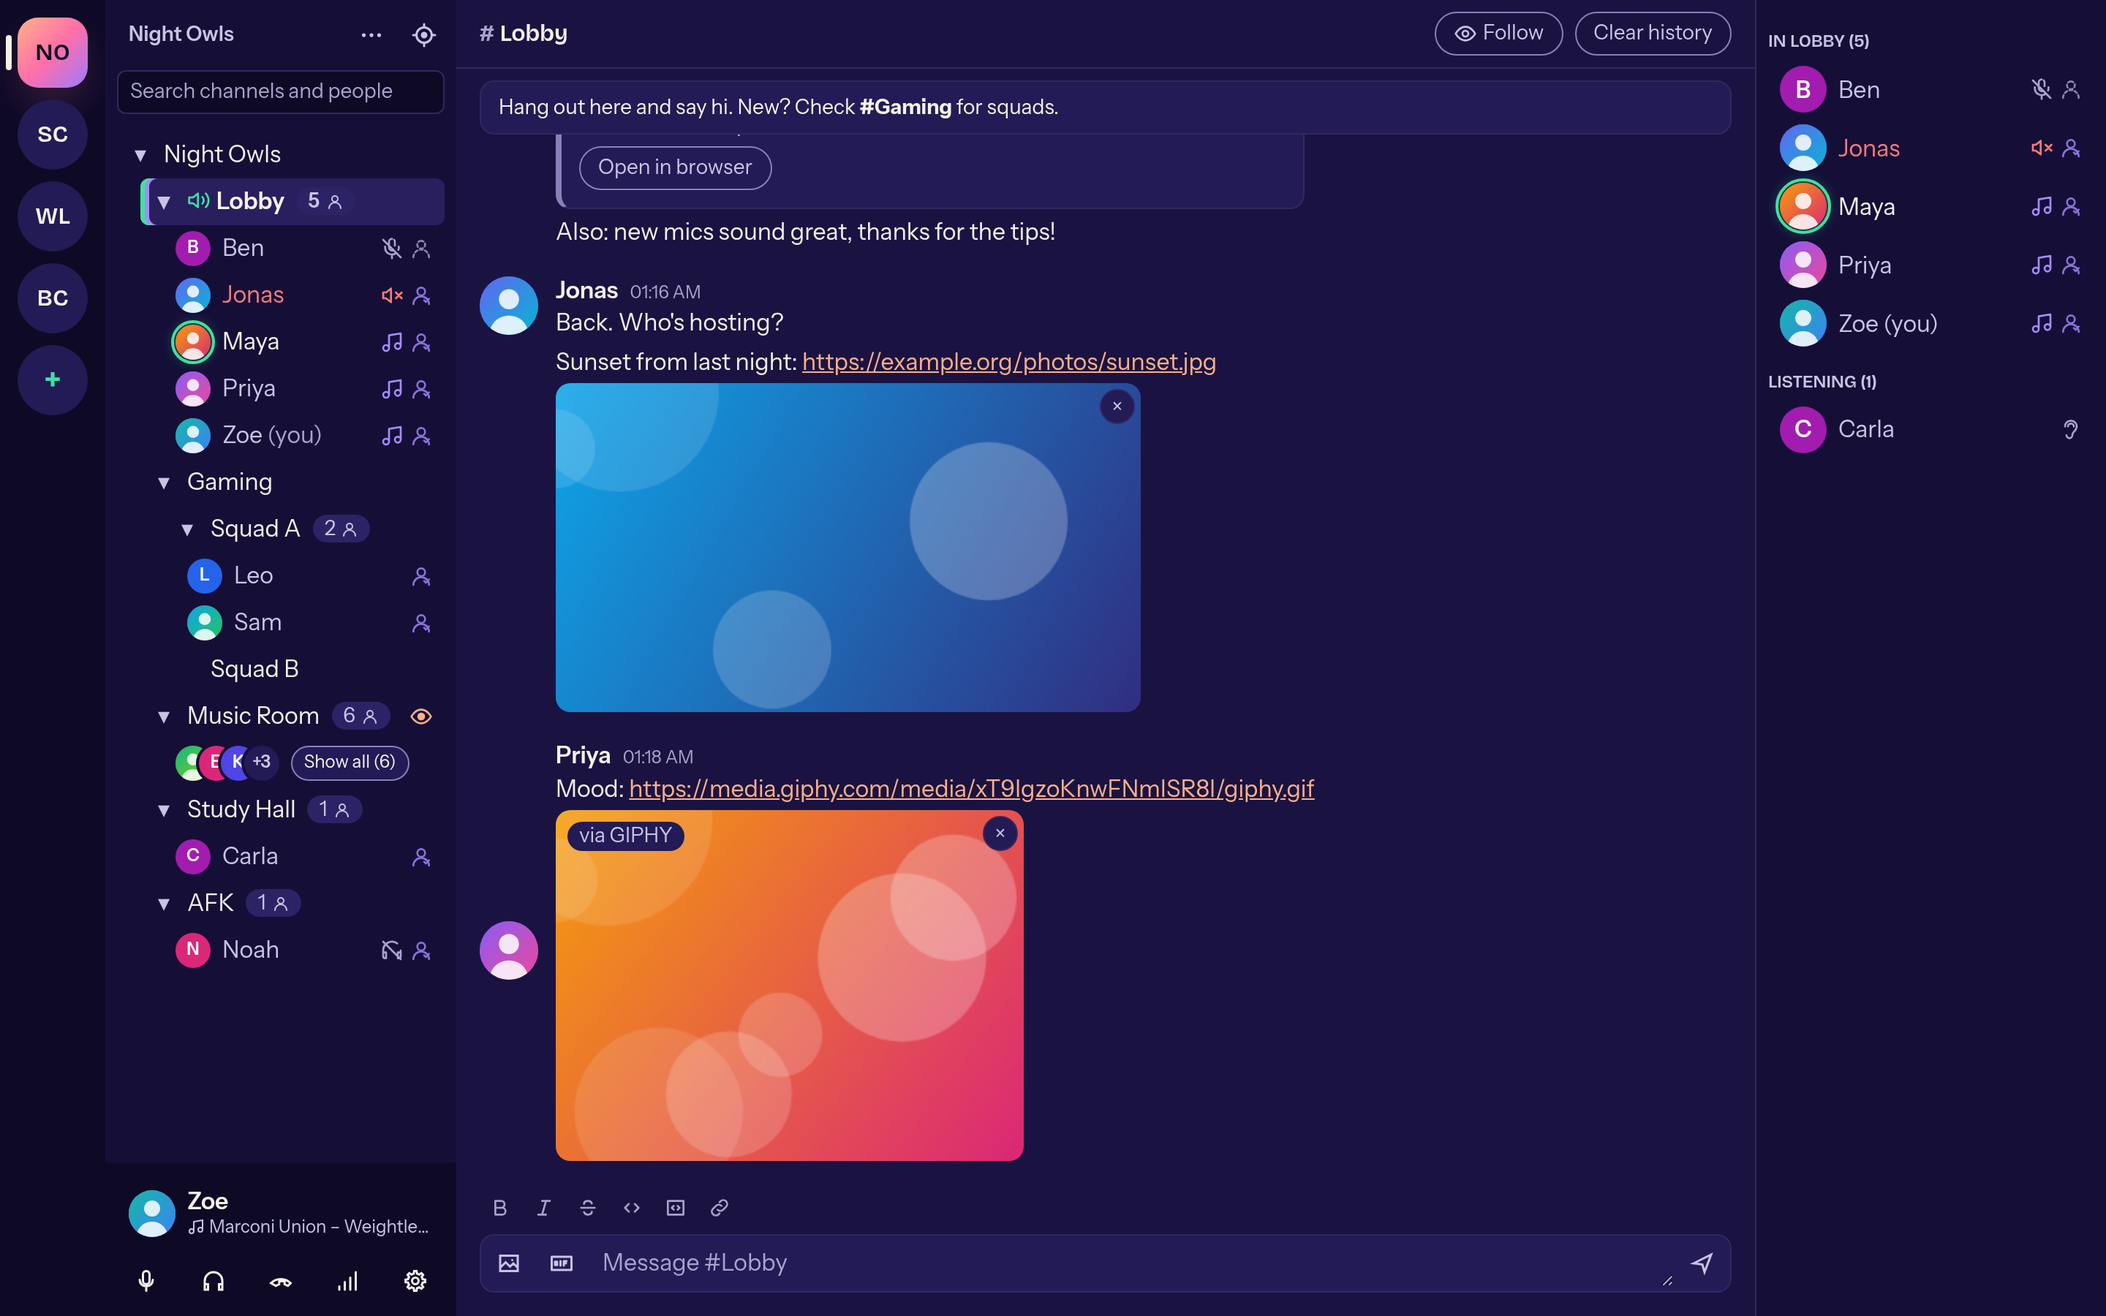
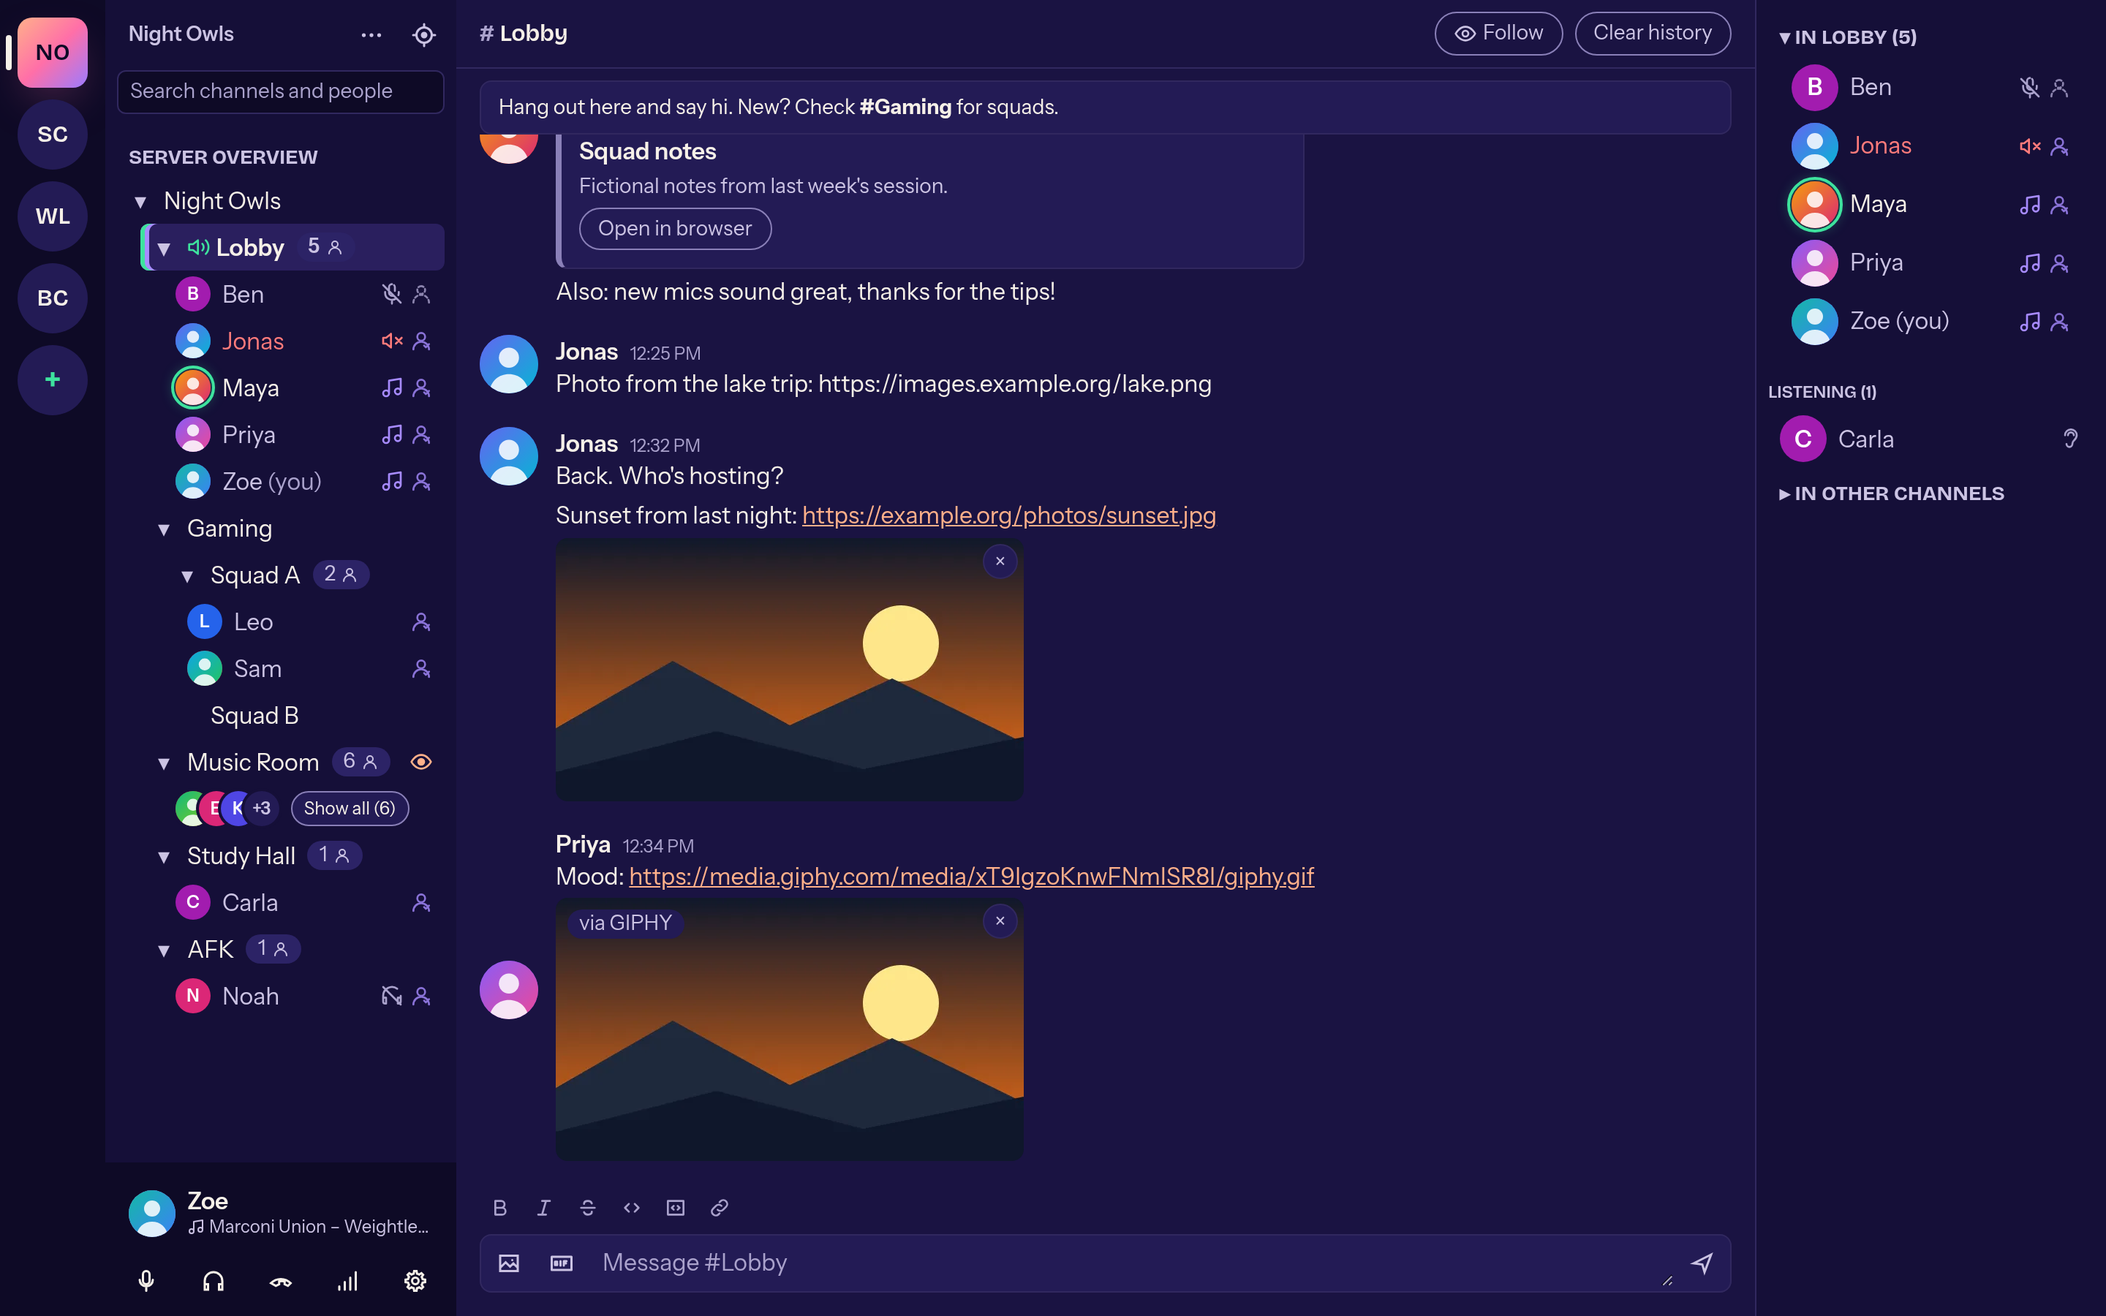
feat: v0.3.0 screenshots from the app repo on the features page

diff --git a/src/lib/features.ts b/src/lib/features.ts
@@ -150,18 +150,24 @@ export const featuresPage: Record<Lang, FeaturesPage> = {
             id: "profil",
             title: "Neues Profil",
             body: "Banner, Abzeichen, Musik oder Spiel und alle Einstellungen für die Person. Änderungen gelten sofort, mit kurzem „Gespeichert“. Das Menü per Rechtsklick hat Symbole und Schalter.",
+            shot: "profile-full",
+            alt: "Volles Profil mit Musik, Einstellungen für die Person und privater Notiz",
             since: "0.3.0",
           },
           {
             id: "kanal-beitreten",
             title: "Kanal einer Person beitreten",
             body: "Rechtsklick auf eine Person oder einen Freund: „‹Kanal› beitreten“ bringt dich direkt in ihren Kanal. Erlaubt der Server das nicht, steht der Grund daneben.",
+            shot: "person-menu",
+            alt: "Menü einer Person mit „Kanal beitreten“",
             since: "0.3.0",
           },
           {
             id: "mitgliederspalte",
             title: "Rechte Spalte mit Bereichen",
             body: "„In ‹Kanal›“, „In anderen Kanälen“ mit allen anderen auf dem Server und „Freunde“, jeweils einklappbar. Mumcord merkt sich, was offen ist. Links steht „Serverübersicht“ über dem Kanalbaum.",
+            shot: "members-other-channels",
+            alt: "Rechte Spalte mit geöffnetem Bereich „In anderen Kanälen“",
             since: "0.3.0",
           },
         ],
@@ -279,7 +285,7 @@ export const featuresPage: Record<Lang, FeaturesPage> = {
             id: "push-to-talk",
             title: "Push-to-Talk überall",
             body: "Tasten und Maustasten, auch wenn ein Spiel im Vordergrund läuft. Unter Wayland über das Shortcut-Portal oder im Kompatibilitätsmodus wie bei TeamSpeak.",
-            shot: "wizard-3-talk-mode",
+            shot: "wizard-4-talk-mode",
             alt: "Einrichtungsassistent, Schritt Sprechmodus",
           },
           {
@@ -323,6 +329,8 @@ export const featuresPage: Record<Lang, FeaturesPage> = {
             id: "positional",
             title: "Positional Audio",
             body: "Stimmen von Leuten im selben Spiel kommen aus ihrer Richtung und werden mit der Entfernung leiser. Über Mumble Link oder die offiziellen Spiel-Plugins von Mumble; ein „3D“-Symbol zeigt, wer Positionsdaten sendet.",
+            shot: "settings-02b-audio-positional-dark",
+            alt: "Einstellungen, Positional Audio mit Entfernungen und Spiel-Plugins",
             since: "0.3.0",
             beta: true,
           },
@@ -337,12 +345,16 @@ export const featuresPage: Record<Lang, FeaturesPage> = {
             id: "overlay-im-spiel",
             title: "Overlay im Spiel",
             body: "Unter Linux direkt im Spiel als Vulkan-Layer, auch in Steam- und Proton-Spielen, getestet mit Tyr und Supermarket Simulator. Pro Spiel schaltbar; Spiele, deren Anti-Cheat Overlays sperrt, bleiben ausgenommen. Unter Windows folgt es später.",
+            shot: "settings-09b-overlay-ingame-dark",
+            alt: "Einstellungen, Overlay im Spiel mit Anti-Cheat-Hinweis und Auswahl pro Spiel",
             since: "0.3.0",
           },
           {
             id: "overlay-fenster",
             title: "Overlay-Fenster",
             body: "Unter Linux und Windows ein durchsichtiges, durchklickbares Fenster über allem, das zeigt, wer in deinem Kanal spricht. Unter macOS gibt es kein Overlay.",
+            shot: "overlay-window",
+            alt: "Overlay-Fenster über einem Spiel, zeigt, wer spricht",
             since: "0.3.0",
           },
           {
@@ -361,6 +373,8 @@ export const featuresPage: Record<Lang, FeaturesPage> = {
             id: "verlauf",
             title: "Geteilter Chatverlauf",
             body: "Mumcord-Clients reichen bis zu 7 Tage Kanalverlauf weiter, damit du nachlesen kannst, was vor deinem Beitreten geschrieben wurde. Nie private Nachrichten, abschaltbar.",
+            shot: "chat-history-sync",
+            alt: "Chat mit Nachrichten aus dem Verlauf eines anderen Mumcord-Nutzers",
             since: "0.3.0",
           },
           {
@@ -380,6 +394,8 @@ export const featuresPage: Record<Lang, FeaturesPage> = {
             id: "freunde",
             title: "Freunde",
             body: "Wiedererkannt am Zertifikat, auch über Server und Umbenennungen hinweg. Die Freunde-Liste in der rechten Spalte zeigt, wer online ist und in welchem Kanal. Der private Verlauf mit Freunden bleibt erhalten.",
+            shot: "members-friends",
+            alt: "Rechte Spalte mit Freunden und wo sie online sind",
             since: "0.3.0",
           },
         ],
@@ -399,14 +415,14 @@ export const featuresPage: Record<Lang, FeaturesPage> = {
             id: "toene",
             title: "Töne und Benachrichtigungen",
             body: "Jedes Ereignis einzeln schaltbar: Beitreten, Auflegen, Nachrichten, Erwähnungen.",
-            shot: "settings-07-sounds-notifications-dark",
+            shot: "settings-08-sounds-notifications-dark",
             alt: "Einstellungen, Bereich Töne und Benachrichtigungen",
           },
           {
             id: "sprachen",
             title: "Sprache wechseln ohne Neustart",
             body: "Die Sprache gilt sofort. Tray-Symbol, Start beim Anmelden und Bedienung per Tastatur und Screenreader gehören dazu.",
-            shot: "settings-06-language-dark",
+            shot: "settings-07-language-dark",
             alt: "Einstellungen, Bereich Sprache der Oberfläche",
           },
           {
@@ -424,24 +440,32 @@ export const featuresPage: Record<Lang, FeaturesPage> = {
             id: "datenschutz-schritt",
             title: "Datenschutz im Wizard",
             body: "Beim ersten Start zeigt ein kurzer Schritt, womit sich Mumcord verbindet und wann, mit Link zur vollständigen Datenschutzerklärung.",
+            shot: "wizard-3-privacy",
+            alt: "Wizard, Schritt Datenschutz",
             since: "0.3.0",
           },
           {
             id: "schnelleinstellungen",
             title: "Schnelleinstellungen am Zahnrad",
             body: "Ein Klick aufs Zahnrad: Vorschauen, Design, Overlay, Musik und Spiel teilen, Profil bearbeiten und registrieren. Beta-Funktionen wie Positional Audio stehen in einer eigenen, einklappbaren Gruppe.",
+            shot: "quick-settings-beta",
+            alt: "Schnelleinstellungen mit geöffneter Beta-Gruppe",
             since: "0.3.0",
           },
           {
             id: "einstellungssuche",
             title: "Einstellungen mit Suche",
             body: "Findet Bereiche und einzelne Einstellungen, springt hin und hebt sie hervor. Die Seitenleiste bleibt beim Scrollen stehen.",
+            shot: "settings-search-dark",
+            alt: "Einstellungssuche mit Treffern für „overlay“",
             since: "0.3.0",
           },
           {
             id: "barrierefreiheit",
             title: "Bereich Barrierefreiheit",
             body: "Sichtbare Tastaturhinweise, Ansagen für Screenreader und Sprunglinks, einzeln schaltbar.",
+            shot: "settings-06-accessibility-dark",
+            alt: "Einstellungen, Bereich Barrierefreiheit",
             since: "0.3.0",
           },
         ],
@@ -550,18 +574,24 @@ export const featuresPage: Record<Lang, FeaturesPage> = {
             id: "profile",
             title: "New profile",
             body: "Banner, badge, music or game and all settings for that person. Changes apply instantly with a short “Saved”. The right-click menu has icons and switches.",
+            shot: "profile-full",
+            alt: "Full profile with music, settings for that person and a private note",
             since: "0.3.0",
           },
           {
             id: "join-channel",
             title: "Join a person's channel",
             body: "Right-click a person or a friend: “Join ‹channel›” takes you straight to their channel. If the server does not allow it, the reason is shown next to it.",
+            shot: "person-menu",
+            alt: "Person menu with “Join channel”",
             since: "0.3.0",
           },
           {
             id: "member-column",
             title: "Right column with sections",
             body: "“In ‹channel›”, “In other channels” with everyone else on the server, and “Friends”, each collapsible. Mumcord remembers what is open. On the left, “Server overview” sits above the channel tree.",
+            shot: "members-other-channels",
+            alt: "Right column with “In other channels” open",
             since: "0.3.0",
           },
         ],
@@ -679,7 +709,7 @@ export const featuresPage: Record<Lang, FeaturesPage> = {
             id: "push-to-talk",
             title: "Push-to-talk everywhere",
             body: "Keys and mouse buttons, even with a game in the foreground. On Wayland via the shortcuts portal or in a TeamSpeak-like compatibility mode.",
-            shot: "wizard-3-talk-mode",
+            shot: "wizard-4-talk-mode",
             alt: "Setup wizard, talk mode step",
           },
           {
@@ -723,6 +753,8 @@ export const featuresPage: Record<Lang, FeaturesPage> = {
             id: "positional",
             title: "Positional audio",
             body: "Voices of people in the same game come from their direction and get quieter with distance. Via Mumble Link or Mumble's official game plugins; a “3D” icon shows who is sending positions.",
+            shot: "settings-02b-audio-positional-dark",
+            alt: "Settings, positional audio with distances and game plugins",
             since: "0.3.0",
             beta: true,
           },
@@ -737,12 +769,16 @@ export const featuresPage: Record<Lang, FeaturesPage> = {
             id: "in-game-overlay",
             title: "In-game overlay",
             body: "On Linux right inside the game as a Vulkan layer, also in Steam and Proton games, tested with Tyr and Supermarket Simulator. Set per game; games whose anti-cheat blocks overlays stay excluded. Windows follows later.",
+            shot: "settings-09b-overlay-ingame-dark",
+            alt: "Settings, in-game overlay with anti-cheat warning and per-game choices",
             since: "0.3.0",
           },
           {
             id: "overlay-window",
             title: "Overlay window",
             body: "On Linux and Windows a transparent, click-through window on top of everything that shows who is talking in your channel. There is no overlay on macOS.",
+            shot: "overlay-window",
+            alt: "Overlay window over a game showing who is talking",
             since: "0.3.0",
           },
           {
@@ -761,6 +797,8 @@ export const featuresPage: Record<Lang, FeaturesPage> = {
             id: "history",
             title: "Shared chat history",
             body: "Mumcord clients pass on up to 7 days of channel history so you can read what was written before you joined. Never private messages, can be switched off.",
+            shot: "chat-history-sync",
+            alt: "Chat with messages from another Mumcord user's history",
             since: "0.3.0",
           },
           {
@@ -780,6 +818,8 @@ export const featuresPage: Record<Lang, FeaturesPage> = {
             id: "friends",
             title: "Friends",
             body: "Recognised by certificate, also across servers and renames. The Friends list in the right column shows who is online and in which channel. Private history with friends is kept.",
+            shot: "members-friends",
+            alt: "Right column with friends and where they are online",
             since: "0.3.0",
           },
         ],
@@ -799,14 +839,14 @@ export const featuresPage: Record<Lang, FeaturesPage> = {
             id: "sounds",
             title: "Sounds and notifications",
             body: "Every event can be switched on its own: joining, leaving, messages, mentions.",
-            shot: "settings-07-sounds-notifications-dark",
+            shot: "settings-08-sounds-notifications-dark",
             alt: "Settings, sounds and notifications section",
           },
           {
             id: "languages",
             title: "Switch language without restarting",
             body: "The language applies at once. A tray icon, start at login and full keyboard and screen reader use come with it.",
-            shot: "settings-06-language-dark",
+            shot: "settings-07-language-dark",
             alt: "Settings, interface language section",
           },
           {
@@ -824,24 +864,32 @@ export const featuresPage: Record<Lang, FeaturesPage> = {
             id: "privacy-step",
             title: "Privacy in the wizard",
             body: "On first start a short step shows what Mumcord connects to and when, with a link to the full privacy statement.",
+            shot: "wizard-3-privacy",
+            alt: "Wizard, privacy step",
             since: "0.3.0",
           },
           {
             id: "quick-settings",
             title: "Quick settings on the gear",
             body: "One click on the gear: previews, theme, overlay, sharing music and game, edit profile and register. Beta features such as positional audio sit in their own collapsible group.",
+            shot: "quick-settings-beta",
+            alt: "Quick settings with the Beta group open",
             since: "0.3.0",
           },
           {
             id: "settings-search",
             title: "Settings with search",
             body: "Finds sections and single settings, jumps there and highlights them. The sidebar stays in place while you scroll.",
+            shot: "settings-search-dark",
+            alt: "Settings search with results for “overlay”",
             since: "0.3.0",
           },
           {
             id: "accessibility",
             title: "Accessibility section",
             body: "Visible keyboard hints, screen reader announcements and skip links, each with its own switch.",
+            shot: "settings-06-accessibility-dark",
+            alt: "Settings, accessibility section",
             since: "0.3.0",
           },
         ],

diff --git a/src/i18n/de.ts b/src/i18n/de.ts
@@ -169,7 +169,7 @@ export const de = {
     title: "Ein Fenster, das sich vertraut anfühlt.",
     items: [
       { src: "wizard-1-identity", caption: "Einrichtung in etwa einer Minute: Identität, Mikrofon, Sprechmodus." },
-      { src: "wizard-3-talk-mode", caption: "Sprachaktivierung oder Push-to-Talk, mumble://-Links und Autostart." },
+      { src: "wizard-4-talk-mode", caption: "Sprachaktivierung oder Push-to-Talk, mumble://-Links und Autostart." },
       { src: "follow-unread-badge", caption: "Kanälen per Auge folgen, Ungelesenes als Zähler." },
       { src: "notification-toast", caption: "Ein kleines Pop-up meldet neue Nachrichten aus anderen Kanälen." },
       { src: "chat-compact", caption: "Kompaktes Chat-Layout: Zeit, Name und Nachricht in einer Zeile." },
@@ -178,10 +178,10 @@ export const de = {
       { src: "search", caption: "Strg+K durchsucht Kanäle und Leute." },
       { src: "banner-rejoin", caption: "Nach dem Neustart zurück in den letzten Sprachkanal." },
       { src: "dialog-certificate-trust", caption: "Vertrauen beim ersten Kontakt, mit Fingerabdruck." },
-      { src: "settings-07-sounds-notifications-dark", caption: "Töne und Benachrichtigungen, pro Ereignis einstellbar." },
+      { src: "settings-08-sounds-notifications-dark", caption: "Töne und Benachrichtigungen, pro Ereignis einstellbar." },
       { src: "settings-02-audio-dark", caption: "Geräte wechseln, ohne neu zu verbinden." },
       { src: "main-light", caption: "Helles Design, vollwertig." },
-      { src: "settings-06-language-dark", caption: "Sprache wechseln, ohne neu zu starten." },
+      { src: "settings-07-language-dark", caption: "24 Amtssprachen der EU, jede in ihrem eigenen Namen." },
     ],
   },
   roadmap: {

diff --git a/src/i18n/en.ts b/src/i18n/en.ts
@@ -170,7 +170,7 @@ export const en: Dict = {
     title: "A window that feels familiar.",
     items: [
       { src: "wizard-1-identity", caption: "Set up in about a minute: identity, microphone, talk mode." },
-      { src: "wizard-3-talk-mode", caption: "Voice activation or push-to-talk, mumble:// links and start at login." },
+      { src: "wizard-4-talk-mode", caption: "Voice activation or push-to-talk, mumble:// links and start at login." },
       { src: "follow-unread-badge", caption: "Follow channels with the eye, unread messages as a count." },
       { src: "notification-toast", caption: "A small pop-up announces new messages from other channels." },
       { src: "chat-compact", caption: "Compact chat layout: time, name and message on one line." },
@@ -179,10 +179,10 @@ export const en: Dict = {
       { src: "search", caption: "Ctrl+K searches channels and people." },
       { src: "banner-rejoin", caption: "After a restart, back into your last voice channel." },
       { src: "dialog-certificate-trust", caption: "Trust on first contact, with the fingerprint." },
-      { src: "settings-07-sounds-notifications-dark", caption: "Sounds and notifications, set per event." },
+      { src: "settings-08-sounds-notifications-dark", caption: "Sounds and notifications, set per event." },
       { src: "settings-02-audio-dark", caption: "Switch devices without reconnecting." },
       { src: "main-light", caption: "A light theme that's fully there." },
-      { src: "settings-06-language-dark", caption: "Switch the language without a restart." },
+      { src: "settings-07-language-dark", caption: "24 official EU languages, each in its own name." },
     ],
   },
   roadmap: {
